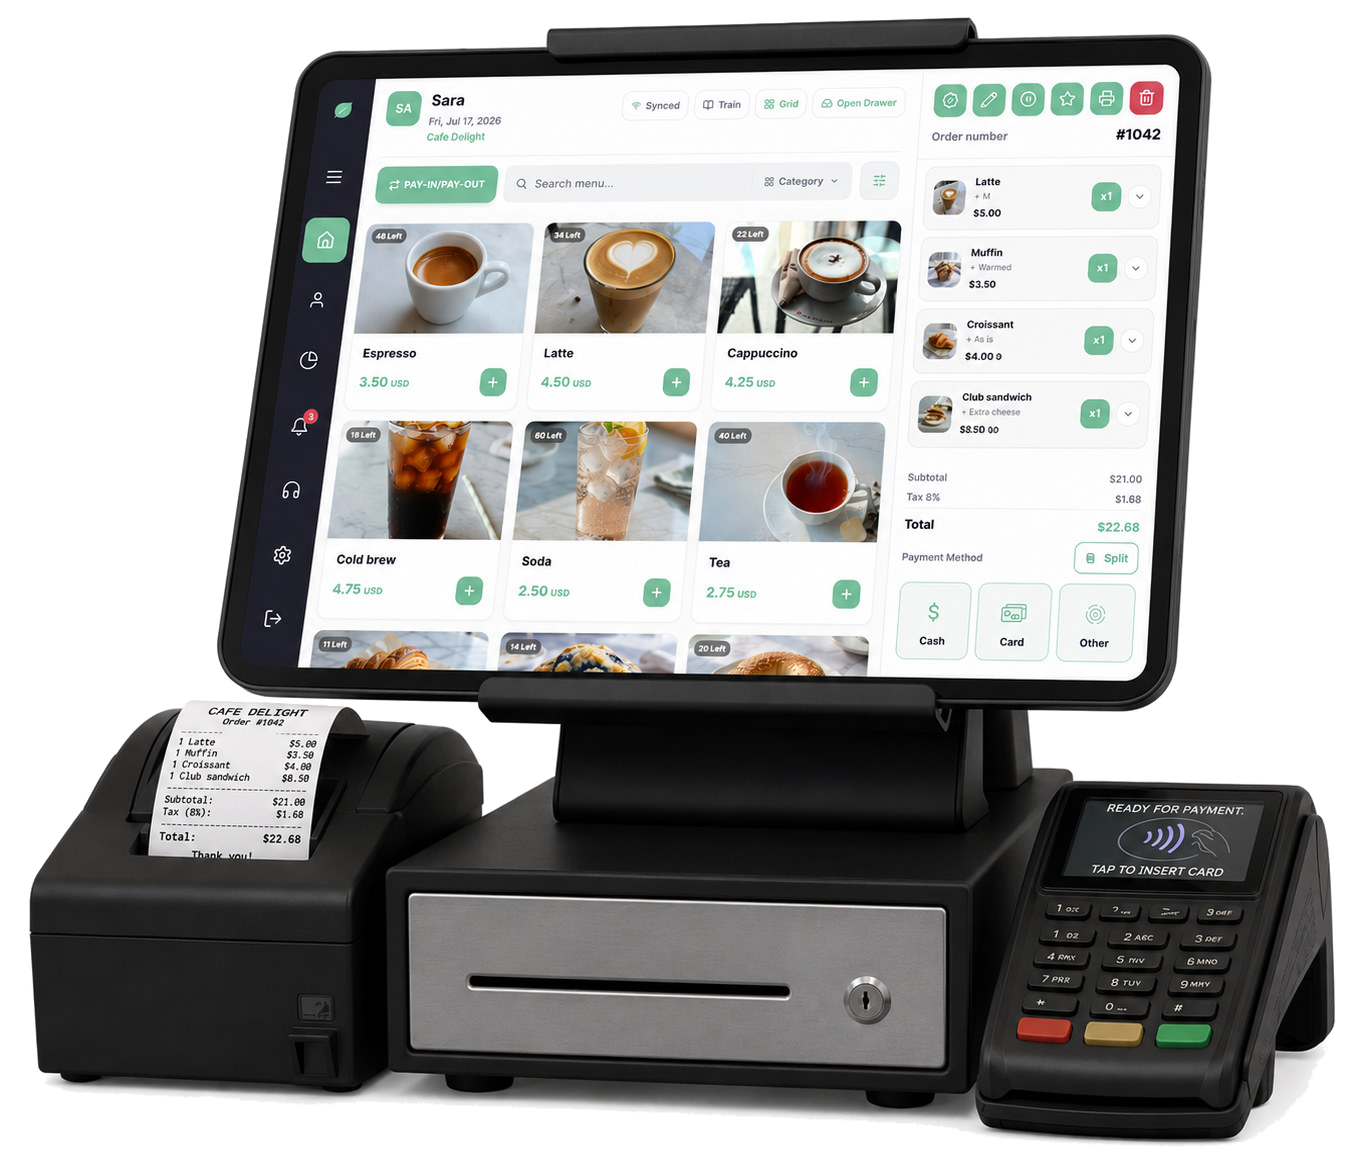
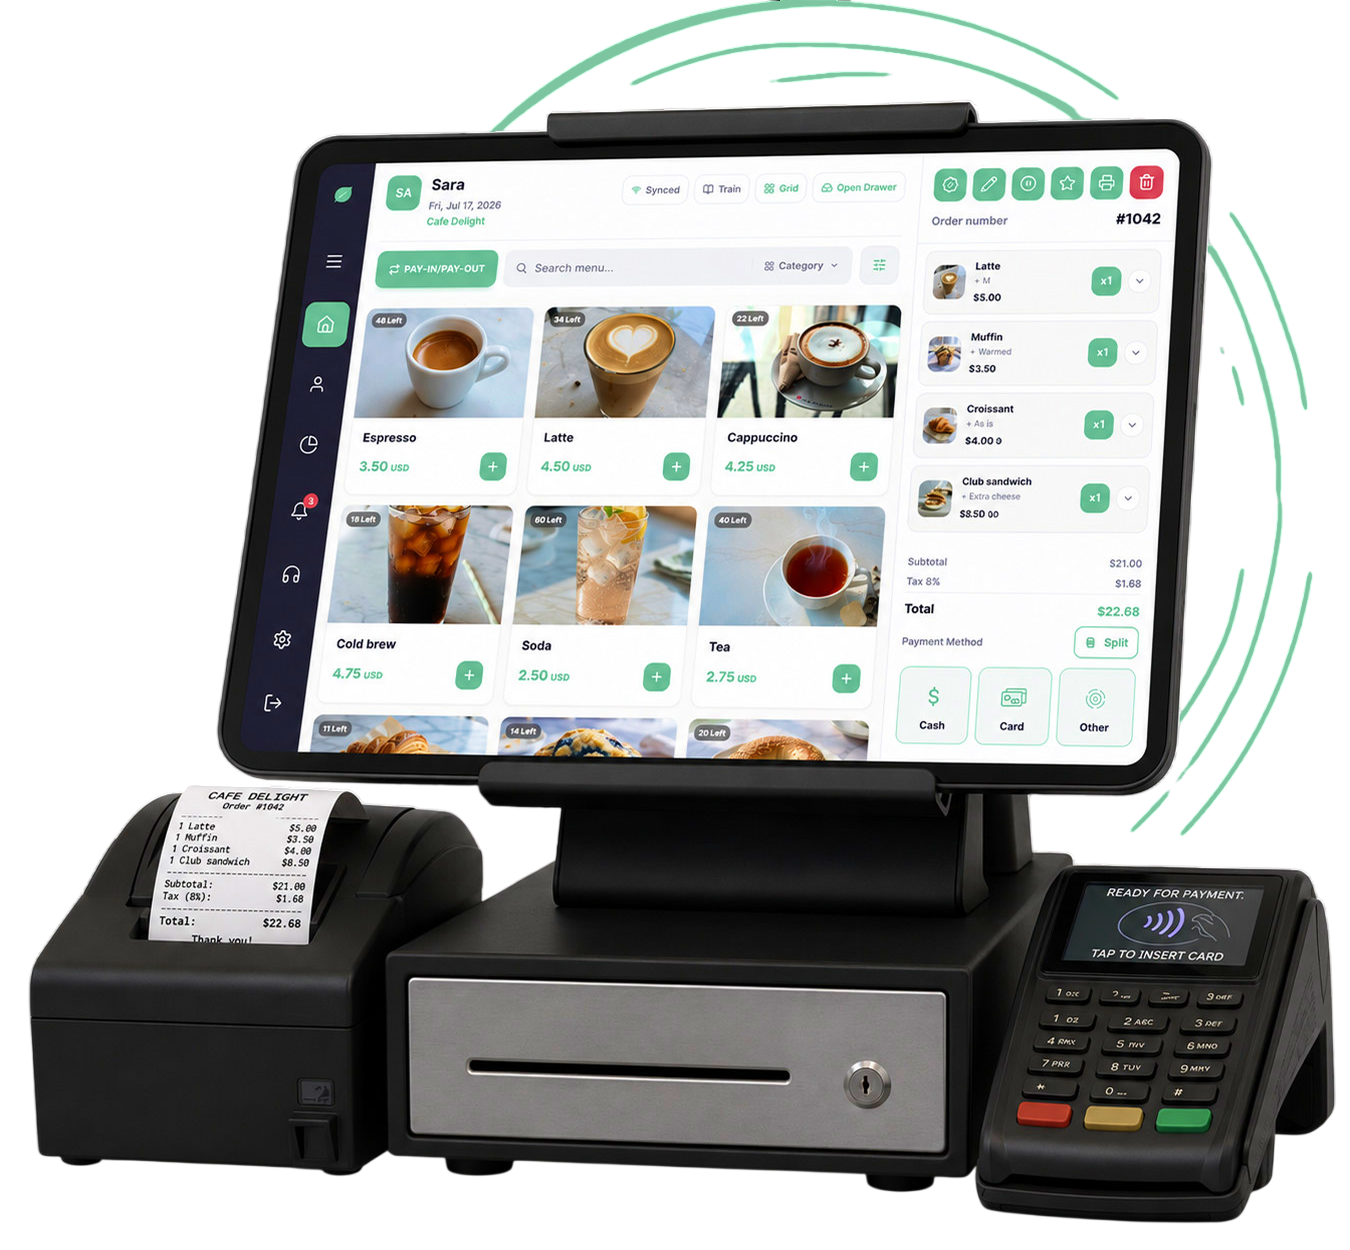
feat(landing): update hero POS image and remove decorative accent layer
Replace the hero product image with the new asset and drop the SVG circle
accent now that the artwork includes its own background treatment.

diff --git a/src/components/Hero.tsx b/src/components/Hero.tsx
@@ -161,32 +161,12 @@ export const Hero = ({ isVideoOpen, setIsVideoOpen }: { isVideoOpen: boolean; se
               animate={{ y: [0, -6, 0] }}
               transition={{ duration: 8, repeat: Infinity, ease: "easeInOut" }}
             >
-              {/* Layered accent kept around the tablet, clear of the hardware gaps below. */}
-              <div
-                aria-hidden
-                className="pointer-events-none absolute z-0 -translate-x-1/2 -translate-y-1/2"
-                style={{ width: '86%', height: '78%', left: '64%', top: '34%' }}
-              >
-                <svg viewBox="0 0 400 400" className="h-full w-full overflow-visible">
-                  <circle cx="200" cy="200" r="168" fill="#7cc39f" opacity="0.92" />
-                  <circle cx="214" cy="188" r="188" fill="none" stroke="#7cc39f" strokeWidth="3" opacity="0.78" />
-                  <path
-                    d="M79 111C117 62 179 34 241 38"
-                    fill="none"
-                    stroke="#b8e1cd"
-                    strokeWidth="7"
-                    strokeLinecap="round"
-                    opacity="0.9"
-                  />
-                </svg>
-              </div>
-
               <img
                 src={heroImage}
                 alt={t('landing.hero.alt', 'Mintcom All-in-One POS System')}
                 className="relative z-10 h-auto w-full object-contain drop-shadow-2xl"
                 width={1350}
-                height={1165}
+                height={1250}
                 decoding="async"
                 fetchPriority="high"
                 draggable={false}
